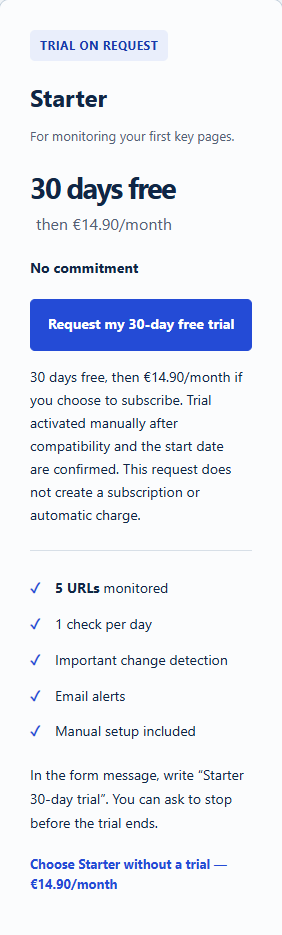
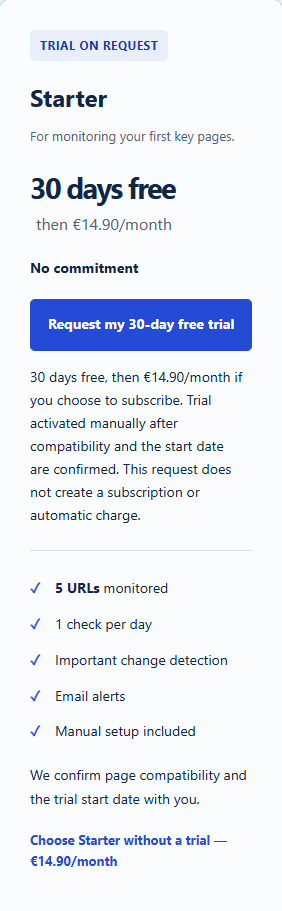
Track consented Starter trial clicks and preselect enquiry type

diff --git a/index.html b/index.html
@@ -111,12 +111,12 @@
   <section data-reveal class="section container signals" aria-labelledby="detect-title"><div><p class="eyebrow">SUIVRE CE QUI VOUS CONCERNE</p><h2 id="detect-title">Un prix n’est pas<br>le seul signal.</h2><p>Partez de vos décisions commerciales pour choisir les pages à surveiller.</p><a class="text-link" href="blog/veille-concurrentielle-ecommerce/">Construire votre méthode de veille ↗</a></div><div class="signal-list"><article><span aria-hidden="true">↘</span><div><h3>Prix & promotions</h3><p>Un prix qui baisse, une remise qui apparaît. Vérifiez les conditions avant de revoir votre positionnement.</p></div></article><article><span aria-hidden="true">＋</span><div><h3>Produits & disponibilité</h3><p>Une référence apparaît ou disparaît de la portion suivie d’une collection ; un stock affiché évolue.</p></div></article><article><span aria-hidden="true">↗</span><div><h3>Livraison & offres</h3><p>Un seuil de livraison offert ou une condition commerciale change sur une page compatible.</p></div></article></div><p class="section-note">La détection dépend des données extractibles. Une collection suivie ne signifie pas que tout son catalogue est couvert, notamment en présence de pagination.</p></section>
 <section data-reveal class="section container reliability" aria-labelledby="reliable-title"><div><p class="eyebrow">DES ATTENTES CLAIRES</p><h2 id="reliable-title">Une veille utile.<br>Des limites explicites.</h2><p>Un signal vous aide à poser la bonne question. La décision vous appartient.</p></div><div class="reliability-content"><article><h3>Limiter le bruit</h3><p>Les contenus instables ou répétitifs sont filtrés ; les changements ambigus peuvent faire l’objet d’une confirmation. Chaque alerte renvoie à sa source.</p></article><article><h3>Connaître le périmètre</h3><p>Accès public, structure, JavaScript, restrictions automatisées et pagination influencent l’extraction. La compatibilité et la couverture sont vérifiées à la configuration, sans garantie d’exhaustivité.</p></article><article><h3>Garder le contact</h3><p>Lorsqu’aucune alerte significative n’est envoyée, un récapitulatif hebdomadaire vous informe de l’activité de surveillance.</p></article></div></section>
   <section data-reveal class="section section-tint" id="tarifs" aria-labelledby="pricing-title"><div class="container"><div class="center-heading"><p class="eyebrow">UNE OFFRE SIMPLE, DÈS LE DÉPART</p><h2 id="pricing-title">À chaque périmètre, son forfait.</h2><p>Commencez par les pages qui influencent vos décisions. Élargissez votre veille selon vos besoins.</p></div><p class="pricing-trial-note">L’essai Starter vous permet de vérifier le service sur un petit périmètre réel de pages publiques compatibles, jusqu’à 5 URL. La demande passe par le formulaire ; nous confirmons la mise en place avec vous. Business et Pro restent disponibles directement, sans passer par l’essai.</p><div class="pricing-grid">
-    <article class="pricing-card starter-trial" aria-labelledby="starter-name"><span class="trial-badge">ESSAI SUR DEMANDE</span><p class="plan-name" id="starter-name">Starter</p><p class="plan-description">Pour suivre vos premières pages clés.</p><p class="plan-price">30 jours gratuits<span>puis 14,90 €/mois</span></p><p class="trial-commitment">Sans engagement</p><a class="button" href="#demande" aria-describedby="starter-trial-terms">Demander mon essai gratuit 30 jours</a><p class="small trial-terms" id="starter-trial-terms">30 jours gratuits, puis 14,90 €/mois si vous choisissez de vous abonner. Essai activé manuellement après confirmation de la compatibilité et de sa date de début. Aucun abonnement ni prélèvement automatique via cette demande.</p><ul class="check-list"><li><strong>5 URLs</strong> surveillées</li><li>1 surveillance / jour</li><li>Détection des changements importants</li><li>Alertes email</li><li>Configuration manuelle incluse</li></ul><p class="small trial-request-help">Dans le message du formulaire, indiquez « Essai Starter 30 jours ». Vous pourrez demander l’arrêt avant la fin de l’essai.</p><a class="text-link starter-paid" href="https://buy.stripe.com/dRm5kC8cA3P93hg9pc4gg02">Choisir Starter sans essai — 14,90 €/mois</a></article>
+    <article class="pricing-card starter-trial" aria-labelledby="starter-name"><span class="trial-badge">ESSAI SUR DEMANDE</span><p class="plan-name" id="starter-name">Starter</p><p class="plan-description">Pour suivre vos premières pages clés.</p><p class="plan-price">30 jours gratuits<span>puis 14,90 €/mois</span></p><p class="trial-commitment">Sans engagement</p><a class="button" href="#demande" data-starter-trial aria-describedby="starter-trial-terms">Demander mon essai gratuit 30 jours</a><p class="small trial-terms" id="starter-trial-terms">30 jours gratuits, puis 14,90 €/mois si vous choisissez de vous abonner. Essai activé manuellement après confirmation de la compatibilité et de sa date de début. Aucun abonnement ni prélèvement automatique via cette demande.</p><ul class="check-list"><li><strong>5 URLs</strong> surveillées</li><li>1 surveillance / jour</li><li>Détection des changements importants</li><li>Alertes email</li><li>Configuration manuelle incluse</li></ul><p class="small trial-request-help">Nous confirmons avec vous la compatibilité des pages et la date de début de l’essai.</p><a class="text-link starter-paid" href="https://buy.stripe.com/dRm5kC8cA3P93hg9pc4gg02">Choisir Starter sans essai — 14,90 €/mois</a></article>
     <article class="pricing-card featured"><span class="plan-kicker">15 pages clés à suivre</span><p class="plan-name">Business</p><p class="plan-description">Pour élargir votre veille concurrentielle.</p><p class="plan-price">29,90 €<span>/mois</span></p><a class="button" href="https://buy.stripe.com/dRm28q50o2L5aJI58W4gg03">Choisir Business <span aria-hidden="true">↗</span></a><ul class="check-list"><li><strong>15 URLs</strong> surveillées</li><li>1 surveillance / jour</li><li>Détection des changements importants</li><li>Alertes email</li><li>Configuration incluse et prioritaire</li><li>Support prioritaire</li></ul><div role="group" class="business-offer" id="business-offer" aria-label="Offre de lancement Business"><p class="offer-label">Offre de lancement Business</p><p class="offer-price">14,90 €/mois pendant 3 mois, puis 29,90 €/mois dès le 4e mois.</p><p>45 € économisés sur les trois premiers mois. Nouveaux clients uniquement.</p><p class="offer-code">Code : <strong>CWBUSINESS3MOIS</strong></p><a class="button" href="https://buy.stripe.com/dRm3cu78w4TdbNMdFs4gg05?prefilled_promo_code=CWBUSINESS3MOIS">Profiter de l’offre Business <span aria-hidden="true">↗</span></a></div></article>
     <article class="pricing-card"><p class="plan-name">Pro</p><p class="plan-description">Pour une veille plus large et plus fréquente.</p><p class="plan-price">59,90 €<span>/mois</span></p><a class="button button-outline" href="https://buy.stripe.com/3cI9AScsQ4Td8BA30O4gg04">Choisir Pro <span aria-hidden="true">↗</span></a><ul class="check-list"><li><strong>40 URLs</strong> surveillées</li><li>Jusqu’à 3 surveillances / jour</li><li>Détection des changements importants</li><li>Alertes email</li><li>Configuration incluse et prioritaire</li><li>Support prioritaire</li></ul></article>
   </div><div class="pricing-note"><p>Vous pouvez vous abonner immédiatement au forfait de votre choix. La configuration de votre veille est ensuite finalisée avec nous.</p><p class="small">Paiement sécurisé par Stripe</p><p class="small"><strong>Offre réservée aux professionnels.</strong> Consultez les <a class="legal-inline-link" href="cgv.html">Conditions Générales de Vente</a> avant de souscrire.</p><p><a class="text-link" href="#demande">Une question sur la compatibilité ?</a></p><p>Sans engagement • Configuration incluse • Résiliable à tout moment</p><p class="vat-note">TVA non applicable — art. 293 B du CGI.</p></div></div></section>
   <section data-reveal class="section container trial" id="configuration" aria-labelledby="trial-title"><div class="trial-copy"><p class="eyebrow">VOTRE VEILLE COMMENCE ICI</p><h2 id="trial-title">Une question avant de commencer ?</h2><p>Vous souhaitez vérifier la compatibilité d’un site, discuter de vos concurrents ou être accompagné dans la mise en place ? Envoyez-nous votre demande.</p><a class="text-link" href="#demande">Poser une question <span aria-hidden="true">↗</span></a><div class="trial-facts"><div><strong>Configuration</strong><span>incluse</span></div><div><strong>Sans</strong><span>engagement</span></div><div><strong>Alertes</strong><span>par email</span></div></div><p class="small">Configuration manuelle incluse. Aucun logiciel à installer.</p></div>
-    <form id="demande" tabindex="-1" class="trial-form" aria-labelledby="form-title"><h3 id="form-title">Parlons de votre besoin.</h3><p class="small muted">Ce formulaire est facultatif avant l’abonnement. Décrivez votre besoin et les pages concernées. Tous les champs sont requis, sauf le message.</p><div class="field-row"><div class="field"><label for="name">Prénom / Nom</label><input id="name" name="name" autocomplete="name" required maxlength="120"></div><div class="field"><label for="company">Entreprise</label><input id="company" name="company" autocomplete="organization" required maxlength="160"></div></div><div class="field"><label for="email">Email professionnel</label><input id="email" name="email" type="email" autocomplete="email" required maxlength="254" placeholder="vous@votre-entreprise.fr"></div><fieldset><legend>Vos premières pages à surveiller</legend><div class="field"><label for="url1">URL concurrente 1</label><input id="url1" name="competitor_url_1" type="url" placeholder="https://…" required maxlength="600"></div><div class="field"><label for="url2">URL concurrente 2</label><input id="url2" name="competitor_url_2" type="url" placeholder="https://…" required maxlength="600"></div><div class="field"><label for="url3">URL concurrente 3</label><input id="url3" name="competitor_url_3" type="url" placeholder="https://…" required maxlength="600"></div></fieldset><div class="field"><label for="message">Message <span class="muted">(facultatif)</span></label><textarea id="message" name="optional_message" rows="3" maxlength="2000" placeholder="Un produit, un prix ou une offre à suivre en particulier ?"></textarea></div><p class="small privacy-note">Les informations envoyées sont utilisées uniquement pour répondre à votre demande et vous recontacter. <a href="confidentialite.html">En savoir plus sur la confidentialité</a>.</p><div class="cf-turnstile" data-sitekey="0x4AAAAAAE2QTEgZOtjjoxAY" data-size="compact"></div><button class="button submit-button" type="submit" disabled>Envoyer ma demande <span aria-hidden="true">↗</span></button><p class="form-status small" id="form-status" role="status" aria-live="polite"></p><p class="small direct-contact">Vous pouvez aussi nous écrire : <a href="mailto:changewatch@cybersignal.fr">changewatch@cybersignal.fr</a>.</p><noscript><p>JavaScript est nécessaire pour envoyer ce formulaire. Vous pouvez aussi nous écrire directement à changewatch@cybersignal.fr via le lien ci-dessus.</p></noscript></form>
+    <form id="demande" tabindex="-1" class="trial-form" aria-labelledby="form-title"><h3 id="form-title">Parlons de votre besoin.</h3><p class="small muted">Ce formulaire est facultatif avant l’abonnement. Décrivez votre besoin et les pages concernées. Tous les champs sont requis, sauf le message.</p><div class="field request-type-field"><label for="request-type">Votre demande</label><select id="request-type" name="request_type" required><option data-request-kind="starter" value="Essai Starter 30 jours">Essai Starter 30 jours</option><option data-request-kind="compatibility" value="Vérification de compatibilité" selected>Vérification de compatibilité</option><option value="Autre demande">Autre demande</option></select></div><div class="field-row"><div class="field"><label for="name">Prénom / Nom</label><input id="name" name="name" autocomplete="name" required maxlength="120"></div><div class="field"><label for="company">Entreprise</label><input id="company" name="company" autocomplete="organization" required maxlength="160"></div></div><div class="field"><label for="email">Email professionnel</label><input id="email" name="email" type="email" autocomplete="email" required maxlength="254" placeholder="vous@votre-entreprise.fr"></div><fieldset><legend>Vos premières pages à surveiller</legend><div class="field"><label for="url1">URL concurrente 1</label><input id="url1" name="competitor_url_1" type="url" placeholder="https://…" required maxlength="600"></div><div class="field"><label for="url2">URL concurrente 2</label><input id="url2" name="competitor_url_2" type="url" placeholder="https://…" required maxlength="600"></div><div class="field"><label for="url3">URL concurrente 3</label><input id="url3" name="competitor_url_3" type="url" placeholder="https://…" required maxlength="600"></div></fieldset><div class="field"><label for="message">Message <span class="muted">(facultatif)</span></label><textarea id="message" name="optional_message" rows="3" maxlength="2000" placeholder="Un produit, un prix ou une offre à suivre en particulier ?"></textarea></div><p class="small privacy-note">Les informations envoyées sont utilisées uniquement pour répondre à votre demande et vous recontacter. <a href="confidentialite.html">En savoir plus sur la confidentialité</a>.</p><div class="cf-turnstile" data-sitekey="0x4AAAAAAE2QTEgZOtjjoxAY" data-size="compact"></div><button class="button submit-button" type="submit" disabled>Envoyer ma demande <span aria-hidden="true">↗</span></button><p class="form-status small" id="form-status" role="status" aria-live="polite"></p><p class="small direct-contact">Vous pouvez aussi nous écrire : <a href="mailto:changewatch@cybersignal.fr">changewatch@cybersignal.fr</a>.</p><noscript><p>JavaScript est nécessaire pour envoyer ce formulaire. Vous pouvez aussi nous écrire directement à changewatch@cybersignal.fr via le lien ci-dessus.</p></noscript></form>
   </section>
   <section data-reveal class="section section-tint" id="faq" aria-labelledby="faq-title"><div class="container faq-layout"><div><p class="eyebrow">AVANT DE COMMENCER</p><h2 id="faq-title">Le bon cadre,<br>avant de commencer.</h2><a class="text-link" href="#demande">Nous contacter <span aria-hidden="true">↗</span></a></div><div class="faq-items">
 <details><summary>Comment savoir si mon périmètre est compatible ?</summary><p>La compatibilité n’est pas universelle. L’accessibilité publique et la structure du site déterminent ce qui peut être surveillé. Nous vérifions la compatibilité et la couverture lors de la configuration. Certains sites restreignent l’accès automatisé ; une autre page publique peut alors être proposée. La pagination et les limites d’extraction peuvent restreindre la portion d’une collection suivie : une URL ne garantit pas la couverture de tout le catalogue.</p></details>

diff --git a/en/index.html b/en/index.html
@@ -111,12 +111,12 @@
   <section data-reveal class="section container signals" aria-labelledby="detect-title"><div><p class="eyebrow">FOCUS ON WHAT MATTERS TO YOU</p><h2 id="detect-title">Price is not<br>the only signal.</h2><p>Start with your business decisions to choose the pages worth monitoring.</p><a class="text-link" href="/en/blog/ecommerce-competitor-monitoring/">Build your monitoring approach ↗</a></div><div class="signal-list"><article><span aria-hidden="true">↘</span><div><h3>Prices & promotions</h3><p>A price drops or a discount appears. Check the conditions before changing your positioning.</p></div></article><article><span aria-hidden="true">＋</span><div><h3>Products & availability</h3><p>A product appears or disappears from the monitored part of a collection, or its displayed stock status changes.</p></div></article><article><span aria-hidden="true">↗</span><div><h3>Delivery & offers</h3><p>A free shipping threshold or a commercial condition changes on a compatible page.</p></div></article></div><p class="section-note">Detection depends on the data that can be extracted. Monitoring a collection does not mean its entire catalogue is covered, particularly when it spans multiple pages.</p></section>
 <section data-reveal class="section container reliability" aria-labelledby="reliable-title"><div><p class="eyebrow">CLEAR EXPECTATIONS</p><h2 id="reliable-title">Useful monitoring.<br>Transparent limits.</h2><p>An alert helps you ask the right question. The decision is yours.</p></div><div class="reliability-content"><article><h3>Reduce the noise</h3><p>Unstable or repetitive content is filtered; ambiguous changes may require confirmation. Every alert links back to its source.</p></article><article><h3>Know what is covered</h3><p>Public access, page structure, JavaScript, restrictions on automated access and pagination affect extraction. Compatibility and coverage are checked during setup; complete coverage is not guaranteed.</p></article><article><h3>Stay informed</h3><p>When no significant alert has been sent, a weekly summary keeps you informed about monitoring activity.</p></article></div></section>
   <section data-reveal class="section section-tint" id="tarifs" aria-labelledby="pricing-title"><div class="container"><div class="center-heading"><p class="eyebrow">STRAIGHTFORWARD PLANS FROM DAY ONE</p><h2 id="pricing-title">The right plan for your scope.</h2><p>Start with the pages that inform your decisions. Expand your monitoring as your needs grow.</p></div><p class="pricing-trial-note">The Starter trial lets you evaluate the service on a small real set of compatible public pages, up to 5 URLs. Request it through the form and we will confirm setup with you. Business and Pro remain available directly, without a trial.</p><div class="pricing-grid">
-    <article class="pricing-card starter-trial" aria-labelledby="starter-name"><span class="trial-badge">TRIAL ON REQUEST</span><p class="plan-name" id="starter-name">Starter</p><p class="plan-description">For monitoring your first key pages.</p><p class="plan-price">30 days free<span>then €14.90/month</span></p><p class="trial-commitment">No commitment</p><a class="button" href="#demande" aria-describedby="starter-trial-terms">Request my 30-day free trial</a><p class="small trial-terms" id="starter-trial-terms">30 days free, then €14.90/month if you choose to subscribe. Trial activated manually after compatibility and the start date are confirmed. This request does not create a subscription or automatic charge.</p><ul class="check-list"><li><strong>5 URLs</strong> monitored</li><li>1 check per day</li><li>Important change detection</li><li>Email alerts</li><li>Manual setup included</li></ul><p class="small trial-request-help">In the form message, write “Starter 30-day trial”. You can ask to stop before the trial ends.</p><a class="text-link starter-paid" href="https://buy.stripe.com/dRm5kC8cA3P93hg9pc4gg02">Choose Starter without a trial — €14.90/month</a></article>
+    <article class="pricing-card starter-trial" aria-labelledby="starter-name"><span class="trial-badge">TRIAL ON REQUEST</span><p class="plan-name" id="starter-name">Starter</p><p class="plan-description">For monitoring your first key pages.</p><p class="plan-price">30 days free<span>then €14.90/month</span></p><p class="trial-commitment">No commitment</p><a class="button" href="#demande" data-starter-trial aria-describedby="starter-trial-terms">Request my 30-day free trial</a><p class="small trial-terms" id="starter-trial-terms">30 days free, then €14.90/month if you choose to subscribe. Trial activated manually after compatibility and the start date are confirmed. This request does not create a subscription or automatic charge.</p><ul class="check-list"><li><strong>5 URLs</strong> monitored</li><li>1 check per day</li><li>Important change detection</li><li>Email alerts</li><li>Manual setup included</li></ul><p class="small trial-request-help">We confirm page compatibility and the trial start date with you.</p><a class="text-link starter-paid" href="https://buy.stripe.com/dRm5kC8cA3P93hg9pc4gg02">Choose Starter without a trial — €14.90/month</a></article>
     <article class="pricing-card featured"><span class="plan-kicker">Monitor 15 key pages</span><p class="plan-name">Business</p><p class="plan-description">For broader competitor monitoring.</p><p class="plan-price">€29.90<span>/month</span></p><a class="button" href="https://buy.stripe.com/dRm28q50o2L5aJI58W4gg03">Choose Business <span aria-hidden="true">↗</span></a><ul class="check-list"><li><strong>15 URLs</strong> monitored</li><li>1 check per day</li><li>Important change detection</li><li>Email alerts</li><li>Priority setup included</li><li>Priority support</li></ul><div role="group" class="business-offer" id="business-offer" aria-label="Business launch offer"><p class="offer-label">Business launch offer</p><p class="offer-price">€14.90/month for 3 months, then €29.90/month from month 4.</p><p>Save €45 over the first three months. New customers only.</p><p class="offer-code">Code: <strong>CWBUSINESS3MOIS</strong></p><a class="button" href="https://buy.stripe.com/dRm3cu78w4TdbNMdFs4gg05?prefilled_promo_code=CWBUSINESS3MOIS">Get the Business launch offer <span aria-hidden="true">↗</span></a></div></article>
     <article class="pricing-card"><p class="plan-name">Pro</p><p class="plan-description">For wider coverage and more frequent checks.</p><p class="plan-price">€59.90<span>/month</span></p><a class="button button-outline" href="https://buy.stripe.com/3cI9AScsQ4Td8BA30O4gg04">Choose Pro <span aria-hidden="true">↗</span></a><ul class="check-list"><li><strong>40 URLs</strong> monitored</li><li>Up to 3 checks per day</li><li>Important change detection</li><li>Email alerts</li><li>Priority setup included</li><li>Priority support</li></ul></article>
   </div><div class="pricing-note"><p>Subscribe directly to your chosen plan. We then work with you to finalise your monitoring setup.</p><p class="small">Secure payment by Stripe</p><p class="small"><strong>For business customers only.</strong> Please read the <a class="legal-inline-link" href="/en/terms.html">Terms and Conditions</a> before subscribing.</p><p><a class="text-link" href="#demande">Questions about compatibility?</a></p><p>No minimum term • Setup included • Cancel anytime</p><p class="vat-note">VAT not applicable — Article 293 B of the French General Tax Code (CGI).</p></div></div></section>
   <section data-reveal class="section container trial" id="configuration" aria-labelledby="trial-title"><div class="trial-copy"><p class="eyebrow">YOUR MONITORING STARTS HERE</p><h2 id="trial-title">A question before you start?</h2><p>Want to check a site’s compatibility, discuss your competitors or get help with setup? Send us your enquiry.</p><a class="text-link" href="#demande">Ask a question <span aria-hidden="true">↗</span></a><div class="trial-facts"><div><strong>Setup</strong><span>included</span></div><div><strong>No minimum</strong><span>term</span></div><div><strong>Alerts</strong><span>by email</span></div></div><p class="small">Manual setup included. No software to install.</p></div>
-    <form id="demande" tabindex="-1" class="trial-form" aria-labelledby="form-title"><h3 id="form-title">Tell us what you need.</h3><p class="small muted">This form is optional before subscribing. Describe your needs and the pages you would like to monitor. All fields are required except the message.</p><div class="field-row"><div class="field"><label for="name">Full name</label><input id="name" name="name" autocomplete="name" required maxlength="120"></div><div class="field"><label for="company">Company</label><input id="company" name="company" autocomplete="organization" required maxlength="160"></div></div><div class="field"><label for="email">Work email</label><input id="email" name="email" type="email" autocomplete="email" required maxlength="254" placeholder="you@your-company.com"></div><fieldset><legend>Your first pages to monitor</legend><div class="field"><label for="url1">Competitor URL 1</label><input id="url1" name="competitor_url_1" type="url" placeholder="https://…" required maxlength="600"></div><div class="field"><label for="url2">Competitor URL 2</label><input id="url2" name="competitor_url_2" type="url" placeholder="https://…" required maxlength="600"></div><div class="field"><label for="url3">Competitor URL 3</label><input id="url3" name="competitor_url_3" type="url" placeholder="https://…" required maxlength="600"></div></fieldset><div class="field"><label for="message">Message <span class="muted">(optional)</span></label><textarea id="message" name="optional_message" rows="3" maxlength="2000" placeholder="Any particular product, price or offer you would like to monitor?"></textarea></div><p class="small privacy-note">We use the information you submit only to respond to your enquiry and contact you about it. <a href="/en/privacy.html">Read our privacy policy</a>.</p><div class="cf-turnstile" data-language="en" data-sitekey="0x4AAAAAAE2QTEgZOtjjoxAY" data-size="compact"></div><button class="button submit-button" type="submit" disabled>Send my enquiry <span aria-hidden="true">↗</span></button><p class="form-status small" id="form-status" role="status" aria-live="polite"></p><p class="small direct-contact">You can also email us: <a href="mailto:changewatch@cybersignal.fr">changewatch@cybersignal.fr</a>.</p><noscript><p>JavaScript is required to submit this form. You can also email changewatch@cybersignal.fr using the link above.</p></noscript></form>
+    <form id="demande" tabindex="-1" class="trial-form" aria-labelledby="form-title"><h3 id="form-title">Tell us what you need.</h3><p class="small muted">This form is optional before subscribing. Describe your needs and the pages you would like to monitor. All fields are required except the message.</p><div class="field request-type-field"><label for="request-type">Your request</label><select id="request-type" name="request_type" required><option data-request-kind="starter" value="Starter 30-day free trial">Starter 30-day free trial</option><option data-request-kind="compatibility" value="Compatibility check" selected>Compatibility check</option><option value="Other enquiry">Other enquiry</option></select></div><div class="field-row"><div class="field"><label for="name">Full name</label><input id="name" name="name" autocomplete="name" required maxlength="120"></div><div class="field"><label for="company">Company</label><input id="company" name="company" autocomplete="organization" required maxlength="160"></div></div><div class="field"><label for="email">Work email</label><input id="email" name="email" type="email" autocomplete="email" required maxlength="254" placeholder="you@your-company.com"></div><fieldset><legend>Your first pages to monitor</legend><div class="field"><label for="url1">Competitor URL 1</label><input id="url1" name="competitor_url_1" type="url" placeholder="https://…" required maxlength="600"></div><div class="field"><label for="url2">Competitor URL 2</label><input id="url2" name="competitor_url_2" type="url" placeholder="https://…" required maxlength="600"></div><div class="field"><label for="url3">Competitor URL 3</label><input id="url3" name="competitor_url_3" type="url" placeholder="https://…" required maxlength="600"></div></fieldset><div class="field"><label for="message">Message <span class="muted">(optional)</span></label><textarea id="message" name="optional_message" rows="3" maxlength="2000" placeholder="Any particular product, price or offer you would like to monitor?"></textarea></div><p class="small privacy-note">We use the information you submit only to respond to your enquiry and contact you about it. <a href="/en/privacy.html">Read our privacy policy</a>.</p><div class="cf-turnstile" data-language="en" data-sitekey="0x4AAAAAAE2QTEgZOtjjoxAY" data-size="compact"></div><button class="button submit-button" type="submit" disabled>Send my enquiry <span aria-hidden="true">↗</span></button><p class="form-status small" id="form-status" role="status" aria-live="polite"></p><p class="small direct-contact">You can also email us: <a href="mailto:changewatch@cybersignal.fr">changewatch@cybersignal.fr</a>.</p><noscript><p>JavaScript is required to submit this form. You can also email changewatch@cybersignal.fr using the link above.</p></noscript></form>
   </section>
   <section data-reveal class="section section-tint" id="faq" aria-labelledby="faq-title"><div class="container faq-layout"><div><p class="eyebrow">BEFORE YOU START</p><h2 id="faq-title">A clear understanding,<br>before you begin.</h2><a class="text-link" href="#demande">Contact us <span aria-hidden="true">↗</span></a></div><div class="faq-items">
 <details><summary>How do I know whether my pages are compatible?</summary><p>Compatibility is not universal. Public accessibility and page structure determine what can be monitored. We check compatibility and coverage during setup. Some websites restrict automated access; we may suggest another public page instead. Pagination and extraction limits can restrict the portion of a collection we monitor: one URL does not guarantee coverage of the entire catalogue.</p></details>

diff --git a/assets/starter-trial.css b/assets/starter-trial.css
@@ -1,1 +1,4 @@
 .starter-trial{border-color:var(--blue);box-shadow:0 8px 24px #2455db12}.trial-badge{display:inline-block;padding:5px 10px;margin-bottom:16px;border-radius:5px;background:var(--pale);color:var(--blue-dark);font-size:.75rem;font-weight:700;letter-spacing:.04em}.starter-trial .plan-price{font-size:clamp(1.8rem,2.5vw,2.35rem);line-height:1.2;overflow-wrap:anywhere}.starter-trial .plan-price span{display:block;font-size:1rem;margin-top:10px}.trial-commitment{font-size:.875rem;font-weight:650}.starter-trial>.button{white-space:normal;line-height:1.45;padding-inline:12px}.starter-trial .trial-terms{margin:14px 0 0;line-height:1.65}.starter-trial .trial-request-help{margin:20px 0 10px}.starter-paid{font-size:.8125rem;line-height:1.6}.pricing-trial-note{max-width:780px;margin:0 auto 28px;color:var(--muted);font-size:1rem;line-height:1.7}.starter-trial{min-width:0;overflow-wrap:anywhere}
+
+.trial-form select{font:inherit;width:100%;min-width:0;max-width:100%;background:#fbfcfd;border:1px solid #bfcadb;border-radius:4px;padding:10px 12px;line-height:1.5;color:var(--ink)}
+.trial-form select:focus-visible{outline:3px solid var(--blue);outline-offset:5px;border-color:var(--blue)}

diff --git a/assets/analytics-frame.js b/assets/analytics-frame.js
@@ -65,6 +65,8 @@
         gtag('event', 'conversion', {send_to:GOOGLE_ADS_ID + '/' + GOOGLE_ADS_LEAD_LABEL});
       }
     }
+    // Only fixed trial parameters reach GA4; never forward form values or arbitrary parameters.
+    if (analytics && data.name === 'free_trial_click' && data.parameters?.plan === 'starter' && data.parameters?.destination === 'demande') gtag('event', 'free_trial_click', {send_to:ID, plan:'starter', destination:'demande'});
     if (analytics && data.name === 'stripe_click' && ['Starter','Business','Pro'].includes(data.parameters?.plan)) gtag('event', 'stripe_click', {send_to:ID, plan:data.parameters.plan});
     if (analytics && data.name === 'commercial_cta_click' && ['tarifs','demande'].includes(data.parameters?.destination)) gtag('event', 'commercial_cta_click', {send_to:ID, destination:data.parameters.destination});
   };

diff --git a/assets/consent.js b/assets/consent.js
@@ -147,6 +147,7 @@
       'https://buy.stripe.com/dRm28q50o2L5aJI58W4gg03':'Business',
       'https://buy.stripe.com/3cI9AScsQ4Td8BA30O4gg04':'Pro',
     };
+    if (link.hasAttribute('data-starter-trial') && link.origin === location.origin && link.hash === '#demande' && readChoice()?.analytics === true) send('free_trial_click', {plan:'starter', destination:'demande'});
     if (plans[link.href]) send('stripe_click', {plan:plans[link.href]});
     else if (link.origin === location.origin && ['#tarifs', '#demande'].includes(link.hash)) send('commercial_cta_click', {destination:link.hash.slice(1)});
   });

diff --git a/script.js b/script.js
@@ -42,6 +42,11 @@ if (form) {
   submit.disabled = false;
   document.querySelectorAll('a[href="#demande"]').forEach((link) => {
     link.addEventListener('click', () => {
+      const requestType = form.elements.request_type;
+      if (requestType) {
+        const kind = link.hasAttribute('data-starter-trial') ? 'starter' : 'compatibility';
+        requestType.value = requestType.querySelector('[data-request-kind="' + kind + '"]').value;
+      }
       form.focus({ preventScroll: true });
     });
   });

diff --git a/docs/starter-trial/README.md b/docs/starter-trial/README.md
@@ -21,18 +21,19 @@ Aucun champ de paiement rempli, aucune acceptation de CGV, aucun paiement et auc
 
 1. Dans les tarifs, Starter présente 30 jours gratuits, puis 14,90 €/mois **si le prospect choisit de s’abonner** ; badge « essai sur demande ».
 2. Le CTA principal mène au formulaire existant, avec son comportement de focus existant. Il ne crée ni essai, ni abonnement, ni prélèvement.
-3. La carte demande d’indiquer « Essai Starter 30 jours » / « Starter 30-day trial » dans le message. Aucun champ, préremplissage, paramètre d’URL ou traitement Formspree n’est ajouté. Le message reste facultatif techniquement : le propriétaire doit clarifier une demande ambiguë.
+3. Le formulaire contient un sélecteur visible « Votre demande / Your request », transmis à Formspree sous `request_type`. Le choix par défaut est « Vérification de compatibilité / Compatibility check ». Le CTA Starter sélectionne « Essai Starter 30 jours / Starter 30-day free trial » ; les autres CTA de contact sélectionnent la compatibilité. Le prospect peut modifier ce choix ou sélectionner « Autre demande / Other enquiry ». Le message reste facultatif, sans consigne à recopier. Aucun paramètre d’URL ni stockage du choix n’est ajouté. Le choix est conservé après erreur, puis réinitialisé à la compatibilité après succès, par le mécanisme existant de réinitialisation du formulaire.
 4. Le propriétaire vérifie la compatibilité des pages, confirme les dates et active manuellement le périmètre Starter (jusqu’à 5 URL, une surveillance par jour). Le client peut demander l’arrêt avant la fin.
 5. À la fin des 30 jours, le propriétaire clôture l’essai sauf choix explicite de souscrire. La poursuite payante passe par le lien Starter existant, à 14,90 €/mois. Aucun basculement automatique n’est implémenté.
 
 Avant publication, le propriétaire doit valider sa capacité à assurer cette activation, le suivi des dates, l’arrêt et la proposition de poursuite payante. Le développement livre la **demande d’essai**, pas l’automatisation de sa gestion.
 
-Le paiement direct Starter reste accessible. Business, Pro et la promotion Business conservent exactement leur contenu et leurs liens. L’essai n’est pas obligatoire. Les CTA du hero/navigation et des articles vers les tarifs bénéficient de cette présentation sans être modifiés. Les articles, leurs métadonnées, les pages juridiques, sitemap, CNAME, le formulaire, Turnstile, Supabase et les scripts partagés sont conservés.
+Le paiement direct Starter reste accessible. Business, Pro et la promotion Business conservent exactement leur contenu et leurs liens. L’essai n’est pas obligatoire. Les CTA du hero/navigation et des articles vers les tarifs bénéficient de cette présentation sans être modifiés. Les articles, leurs métadonnées, les pages juridiques, sitemap, CNAME, Turnstile et Supabase sont conservés. Le traitement AJAX reste identique : `FormData` inclut simplement le nouveau champ natif. La présélection et le suivi dédié sont les seuls ajouts aux scripts partagés.
 
 ## Mesure
 
-Aucun événement ajouté ou modifié. Le nouveau CTA réutilise `commercial_cta_click` avec `destination: demande` après consentement Analytics. Cet événement mesure un clic vers le formulaire, pas un essai activé ; il ne permet pas de distinguer seul une demande d’essai des autres demandes de compatibilité.
+Le CTA Starter émet exactement un `free_trial_click` par clic, uniquement avec consentement Analytics actif, avec deux paramètres métier fixes : `plan: starter`, `destination: demande`. `send_to: G-RB6NSRRM9L` est uniquement le routage technique vers GA4. L’iframe reconstruit ces paramètres et ne propage aucune valeur du formulaire, même `request_type`. Aucun événement d’essai n’est routé vers Ads. Aucun chargement Analytics ou événement avant consentement, après refus/retrait, ou avec publicité seule. Les clics avant consentement ne sont pas rejoués après acceptation.
 
+L’événement existant `commercial_cta_click` avec `destination: demande` est conservé en parallèle. Ce sont deux événements distincts ; pour compter les clics d’essai, utiliser uniquement `free_trial_click`, ne pas additionner les deux. Un clic n’est ni un lead confirmé ni un essai activé.
 Le lien payant conserve `stripe_click` / `plan: starter`. Le succès HTTP Formspree conserve `cw:lead-confirmed`, GA4 `generate_lead` et la conversion Ads selon les consentements existants. Aucun contenu du formulaire n’est envoyé dans ces événements. Ni `purchase` ni conversion « essai activé » ajoutée.
 
 Pas d’infrastructure A/B. Après validation et publication futures, cette présentation deviendra la nouvelle référence à comparer aux anciennes métriques Google Ads. Compléter les clics et leads par un décompte manuel des demandes d’essai, essais réellement activés et abonnements ; ne pas confondre ces étapes ni attribuer un effet causal à une simple comparaison avant/après.
@@ -41,7 +42,7 @@ Pas d’infrastructure A/B. Après validation et publication futures, cette pré
 
 Les logs des suites sont dans `logs/`. Les tests navigateur locaux interceptent les services externes : leurs succès ne constituent pas une validation de livraison d’email, d’activation du moteur ou de réception dans GA4/Ads. Le contrôle réel Stripe porte uniquement sur les pages de paiement affichées.
 
-`starter-trial` vérifie les deux langues, les textes/prix, l’identité de Business/Pro et des quatre liens Stripe, le formulaire inchangé, les fichiers existants conservés (hors les deux homes et leurs assertions), six largeurs (320/375/390/768/1024/1440), absence de débordement de la carte, axe WCAG sur les tarifs à 320/1440, focus clavier, lien sans JavaScript, consentement/refus/retrait, événement CTA sans donnée personnelle et absence de paiement/demande réels.
+`starter-trial` vérifie les deux langues, les textes/prix, l’identité de Business/Pro et des quatre liens Stripe, le formulaire conservé hors nouveau sélecteur, les fichiers existants conservés hors modifications ciblées, six largeurs (320/375/390/768/1024/1440), absence de débordement de la carte, axe WCAG sur les tarifs à 320/1440, focus clavier, lien sans JavaScript, consentement/refus/retrait, événement CTA sans donnée personnelle et absence de paiement/demande réels.
 
 Zoom CSS à 200 % dans une fenêtre 1440 px : contrôle de débordement réussi. Agrandissement du texte à 200 % à 320 px : la carte Starter reste contenue, mais la page entière a un débordement **préexistant**, identique à la base (FR 371 px, EN 457 px de largeur défilable). Il concerne des éléments hors carte, notamment démonstration et section de contact ; non corrigé pour respecter le périmètre. Le premier test global a échoué, puis la comparaison avant/après a permis de distinguer cet état préexistant d’une régression. Il ne s’agit pas d’un PASS d’accessibilité globale.
 
@@ -68,7 +69,16 @@ Aucune fusion ni publication autorisée par cette livraison. Validation commerci
 | `node tests/consent.cjs` | PASS |
 | `node tests/consent-ux.cjs` | PASS |
 | `node tests/google-ads.cjs` | PASS (tag simulé, services interceptés) |
-| `node tests/blog-launch.cjs` | PASS à la relance isolée ; premier essai interrompu par `ECONNRESET` sur `/en/privacy.html` local, log conservé |
+| `node tests/blog-launch.cjs` | PASS au nouveau passage ; log ECONNRESET de la livraison initiale conserve pour historique |
 | `git diff --check` | PASS |
 
-Exécution avec Node fourni par Codex, Playwright et Edge headless. `PLAYWRIGHT_MODULE` pointe sur le module fourni ; `CW_AXE_PATH` pointe sur axe-core 4.10.3. Aucun changement de code n’a été nécessaire pour le nouvel essai de `blog-launch`. Les scripts de tracking et formulaire sont identiques à la base ; aucun test réseau Google réel supplémentaire n’a été réalisé dans cette mission.
+Exécution avec Node fourni par Codex, Playwright et Edge headless. `PLAYWRIGHT_MODULE` pointe sur le module fourni ; `CW_AXE_PATH` pointe sur axe-core 4.10.3. Aucun changement de code n’a été nécessaire pour le nouvel essai de `blog-launch`. Les scripts de tracking ajoutent seulement le nouvel événement fixe ; `script.js` ajoute seulement la présélection. Aucun test réseau Google réel supplémentaire n’a été réalisé dans cette mission.
+
+
+### Ajustements demandés après validation de la PR #16
+
+- Proposition, tarifs, design des cartes et quatre liens Stripe conservés ; consigne à recopier remplacée par la confirmation de compatibilité et de date.
+- Sélecteur HTML natif, label associé, styles limités au nouveau contrôle et focus visible. Fonctionne indépendamment du consentement. Sans JavaScript, le choix reste accessible manuellement ; le formulaire conserve son alternative email existante.
+- Tests dédiés FR/EN : clic avant consentement/refus/retrait/publicité seule, présélection clavier, modification du sélecteur et retour à compatibilité, un événement par clic, paramètres stricts, données privées absentes des requêtes Google, soumission interceptée 422 puis 200, conservation/réinitialisation du type, aucune conversion à l’échec et une seule après succès.
+- Les soumissions de test sont interceptées localement ; aucune demande réelle ni paiement. Les tests existants continuent de vérifier les succès/erreurs Formspree, `generate_lead`, Ads et les clics Stripe.
+- Premier passage du nouveau test interrompu par l’encodage d’un littéral français dans le test, corrigé en UTF-8 avant relance. Aucun défaut correspondant du formulaire.
